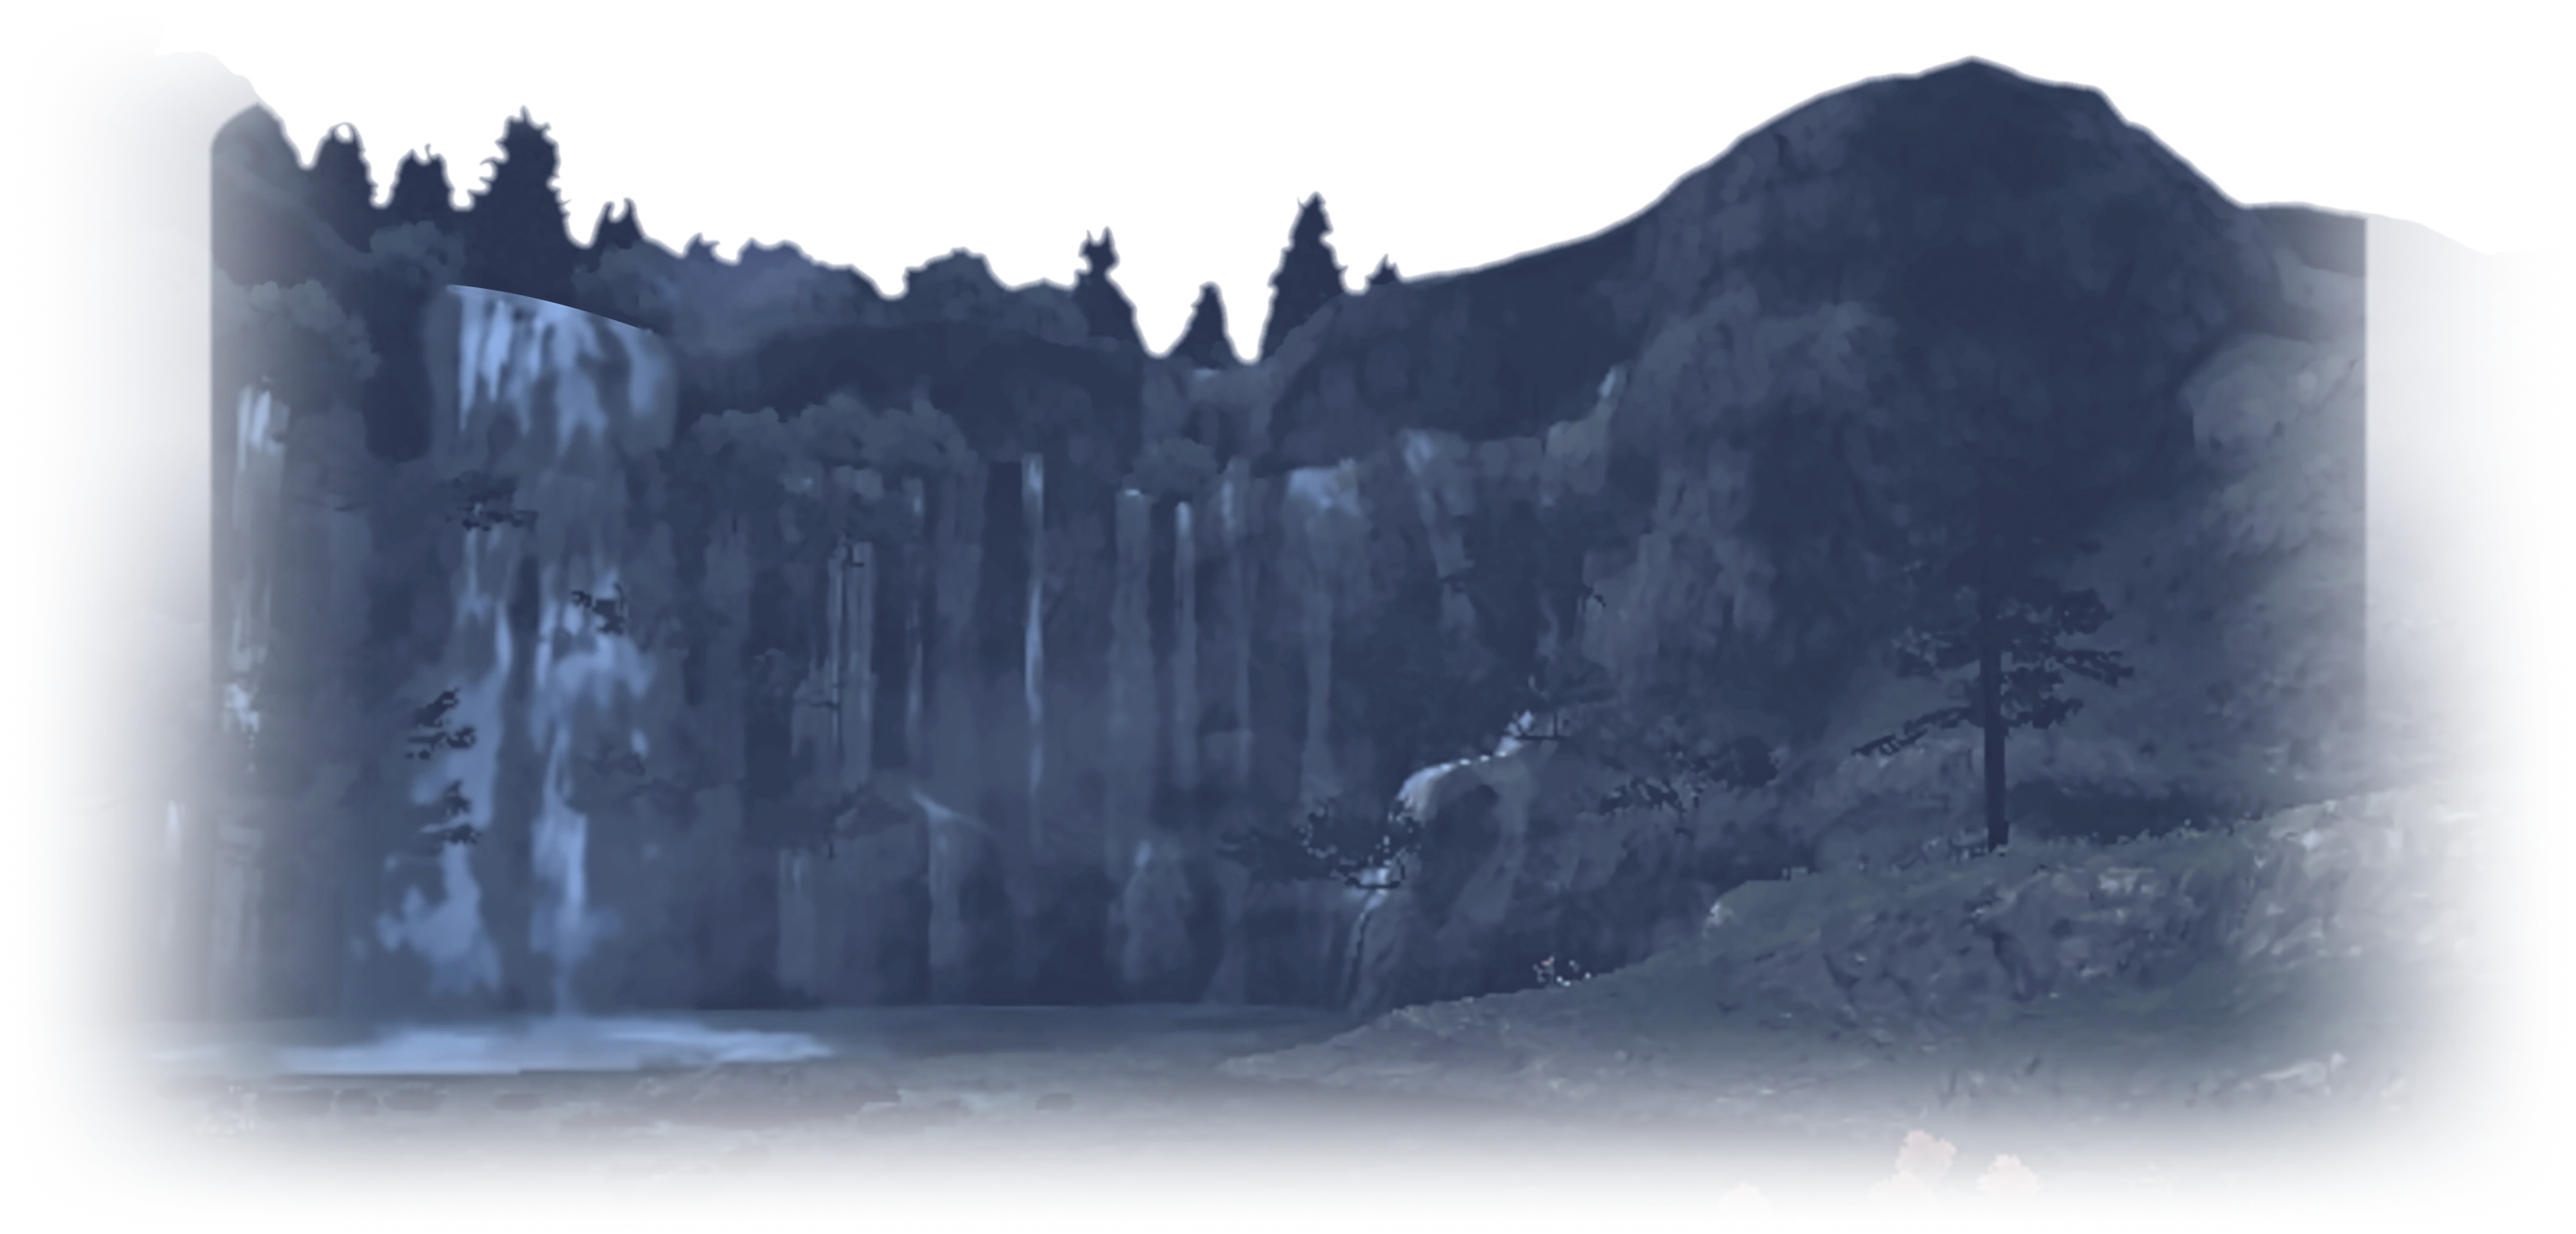
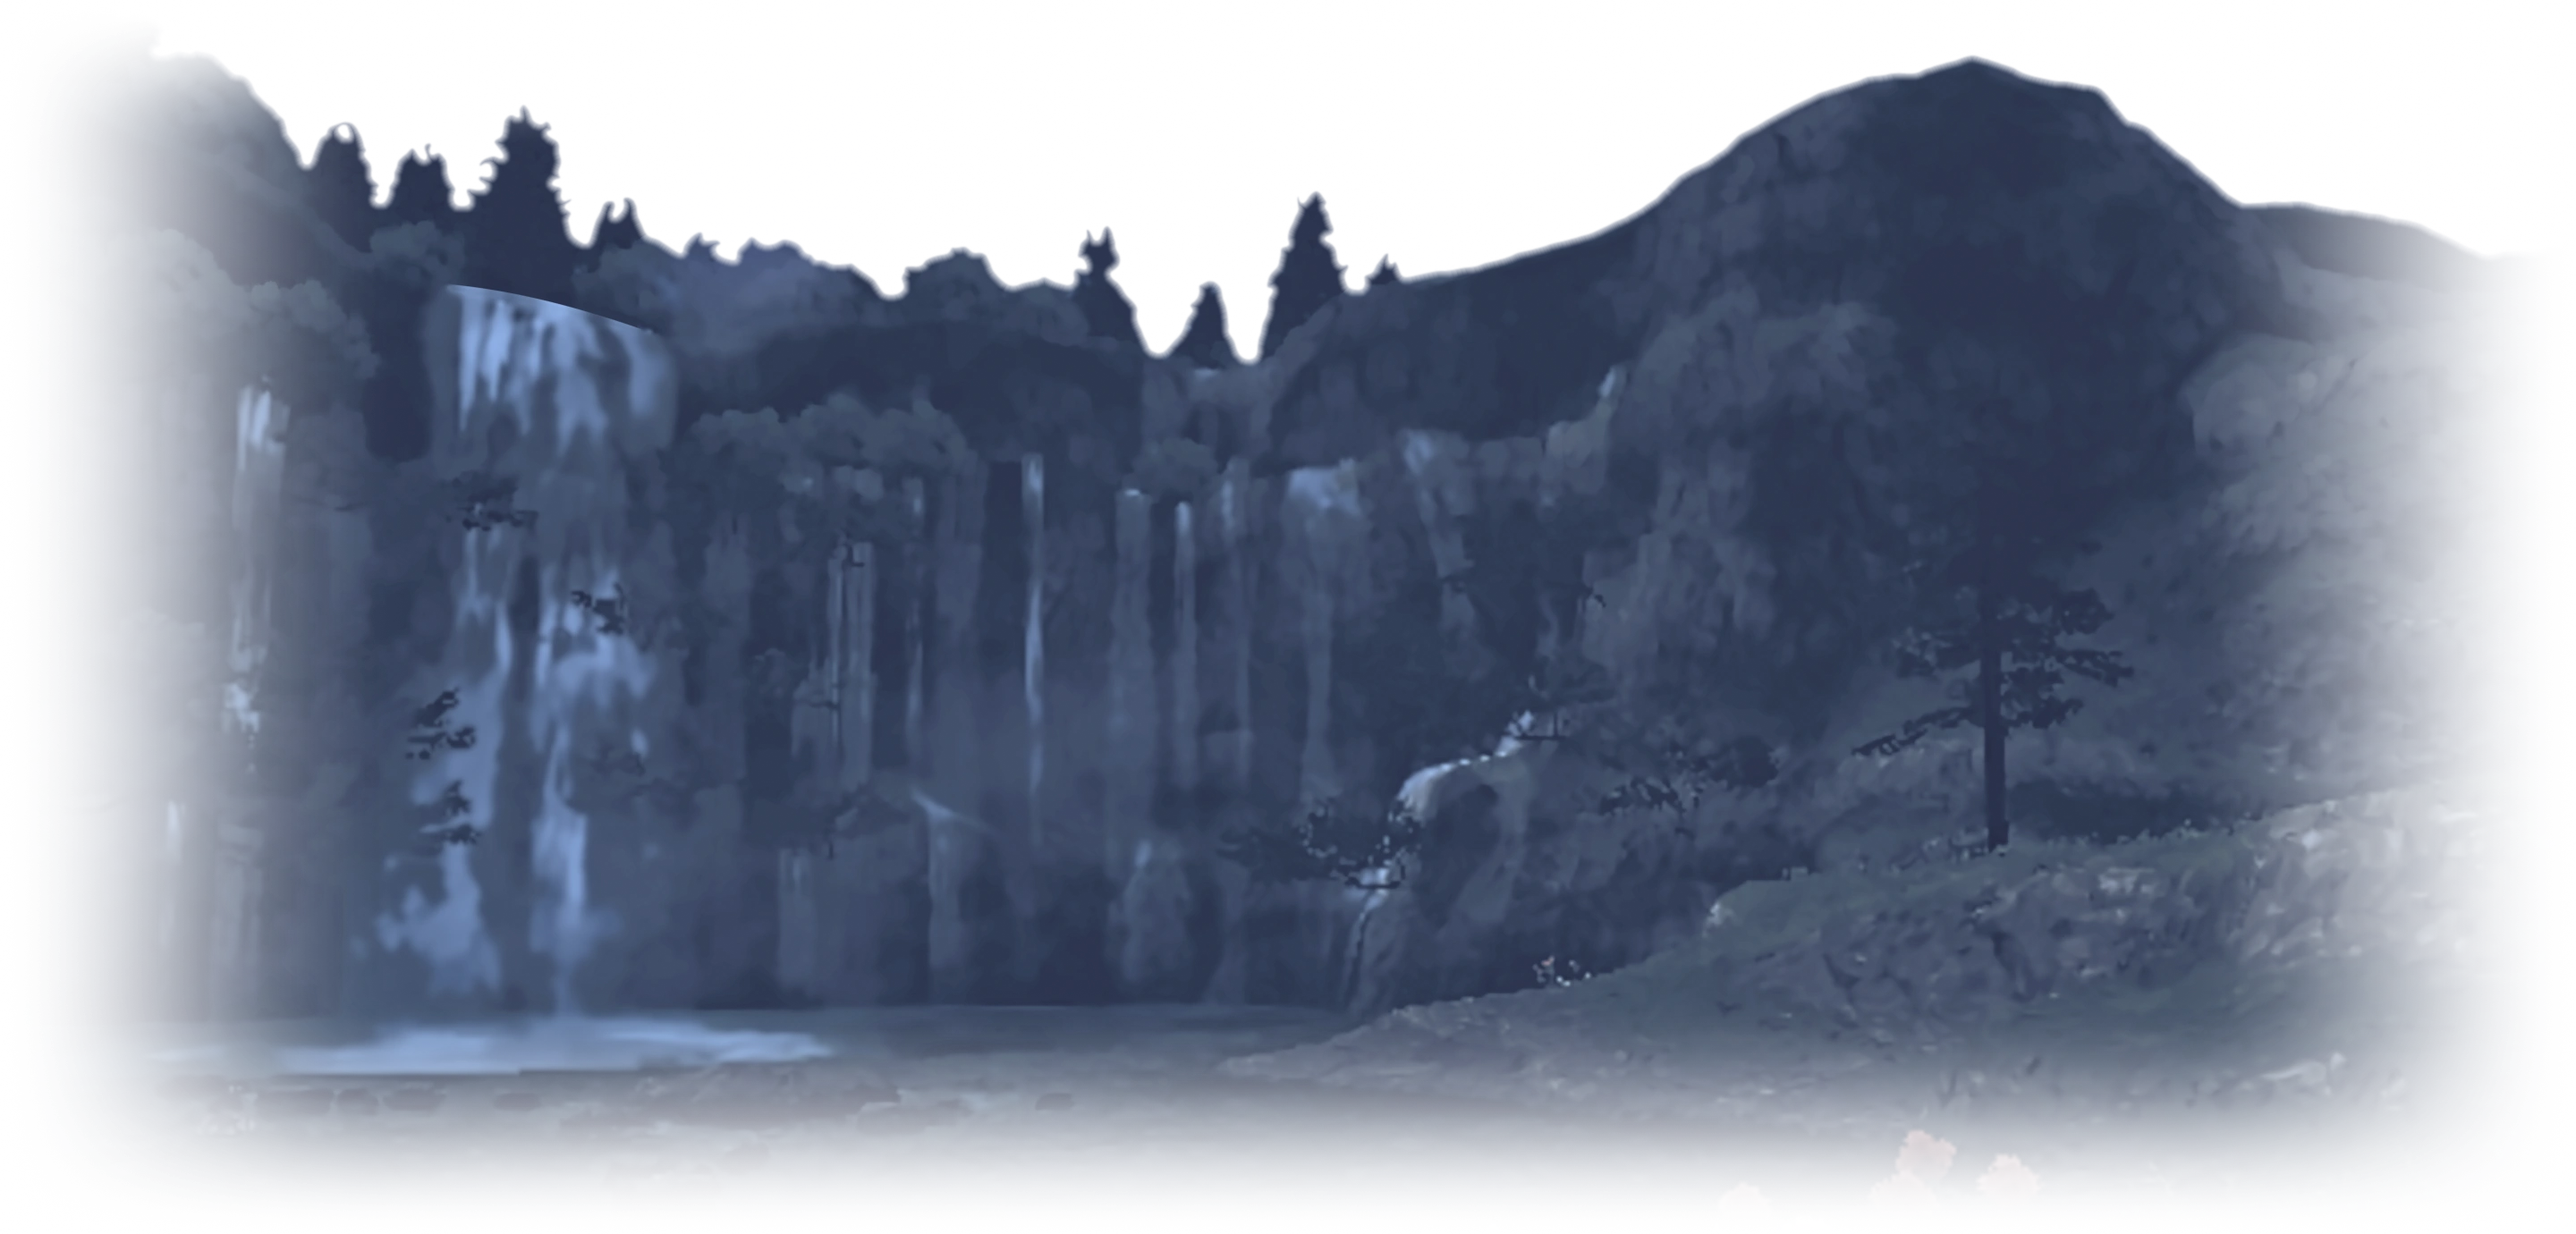
World Time wallpaper: 1750px wide, sides back to their gentle fade (haze only on the skyline)
Claude-Session: https://claude.ai/code/session_01JFbAAtZquShT1fwU1ErE8a

Changed region(s): [[0.0312, 0.0312, 0.125, 0.4986], [0.9062, 0.1558, 0.9688, 0.4986]]

diff --git a/site.css b/site.css
@@ -287,7 +287,7 @@ a.drop:hover,a.drop:focus{color:var(--bright);border-bottom-color:var(--accent);
 .wt-page{position:relative;isolation:isolate}
 .wt-wall{position:fixed;z-index:-1;inset:0;pointer-events:none;overflow:hidden;
 background:radial-gradient(ellipse 48% 30% at 50% 26%,rgba(40,52,74,.32),rgba(40,52,74,0) 80%);opacity:.7}
-.wt-wall::before{content:"";position:absolute;inset:0;background:url(img/wall-misareaux.webp) center 104px/min(1600px,112vw) auto no-repeat;filter:brightness(.5)}
+.wt-wall::before{content:"";position:absolute;inset:0;background:url(img/wall-misareaux.webp) center 104px/min(1750px,122vw) auto no-repeat;filter:brightness(.5)}
 .wt-wall::after{content:"";position:absolute;inset:0;background:radial-gradient(ellipse 30% 30% at 50% 40%,rgba(10,11,18,.4),rgba(10,11,18,0) 100%)}
 @media (max-width:760px){.wt-wall::before{background-size:auto 300px;background-position:42% 38%}}
 .wt-card{background:rgba(17,20,29,.92);backdrop-filter:blur(6px);-webkit-backdrop-filter:blur(6px)}

diff --git a/new-player-guide.html b/new-player-guide.html
@@ -10,7 +10,7 @@
 <link rel="preconnect" href="https://fonts.googleapis.com">
 <link rel="preconnect" href="https://fonts.gstatic.com" crossorigin>
 <link rel="stylesheet" href="https://fonts.googleapis.com/css2?family=Cormorant+Garamond:ital,wght@0,300;0,400;0,500;0,600;1,400;1,500&amp;family=Inter:wght@400;500;600&amp;display=swap">
-<link rel="stylesheet" href="site.css?v=b05b67b30c">
+<link rel="stylesheet" href="site.css?v=a602bf4624">
 <style>
 .npg-steps{display:grid;grid-template-columns:repeat(auto-fit,minmax(240px,1fr));gap:16px}
 .npg-step{display:flex;gap:16px;align-items:flex-start;background:var(--card);border:1px solid var(--line);border-radius:12px;padding:22px}

diff --git a/nm-tracker.html b/nm-tracker.html
@@ -10,7 +10,7 @@
 <link rel="preconnect" href="https://fonts.googleapis.com">
 <link rel="preconnect" href="https://fonts.gstatic.com" crossorigin>
 <link rel="stylesheet" href="https://fonts.googleapis.com/css2?family=Cormorant+Garamond:ital,wght@0,300;0,400;0,500;0,600;1,400;1,500&amp;family=Inter:wght@400;500;600&amp;display=swap">
-<link rel="stylesheet" href="site.css?v=b05b67b30c">
+<link rel="stylesheet" href="site.css?v=a602bf4624">
 <style>
 .nmst{background:var(--bg);padding:18px 20px;display:flex;flex-direction:column;gap:2px}
 .nmst b{font-family:var(--serif);font-weight:400;font-size:38px;line-height:1;color:var(--bright)}

diff --git a/getting-started.html b/getting-started.html
@@ -10,7 +10,7 @@
 <link rel="preconnect" href="https://fonts.googleapis.com">
 <link rel="preconnect" href="https://fonts.gstatic.com" crossorigin>
 <link rel="stylesheet" href="https://fonts.googleapis.com/css2?family=Cormorant+Garamond:ital,wght@0,300;0,400;0,500;0,600;1,400;1,500&amp;family=Inter:wght@400;500;600&amp;display=swap">
-<link rel="stylesheet" href="site.css?v=b05b67b30c">
+<link rel="stylesheet" href="site.css?v=a602bf4624">
 <style>
 .gs-wrap{display:grid;grid-template-columns:1fr 340px;gap:40px;align-items:start}
 .gs-steps{list-style:none;margin:0;padding:0;display:flex;flex-direction:column;gap:16px}

diff --git a/rules.html b/rules.html
@@ -10,7 +10,7 @@
 <link rel="preconnect" href="https://fonts.googleapis.com">
 <link rel="preconnect" href="https://fonts.gstatic.com" crossorigin>
 <link rel="stylesheet" href="https://fonts.googleapis.com/css2?family=Cormorant+Garamond:ital,wght@0,300;0,400;0,500;0,600;1,400;1,500&amp;family=Inter:wght@400;500;600&amp;display=swap">
-<link rel="stylesheet" href="site.css?v=b05b67b30c">
+<link rel="stylesheet" href="site.css?v=a602bf4624">
 <style>
 .rules-wrap{display:grid;grid-template-columns:260px 1fr;gap:40px;align-items:start}
 .rules-toc{position:sticky;top:96px;display:flex;flex-direction:column;gap:14px}

diff --git a/companions.html b/companions.html
@@ -10,7 +10,7 @@
 <link rel="preconnect" href="https://fonts.googleapis.com">
 <link rel="preconnect" href="https://fonts.gstatic.com" crossorigin>
 <link rel="stylesheet" href="https://fonts.googleapis.com/css2?family=Cormorant+Garamond:ital,wght@0,300;0,400;0,500;0,600;1,400;1,500&amp;family=Inter:wght@400;500;600&amp;display=swap">
-<link rel="stylesheet" href="site.css?v=b05b67b30c">
+<link rel="stylesheet" href="site.css?v=a602bf4624">
 
 </head>
 <body>

diff --git a/crafting.html b/crafting.html
@@ -10,7 +10,7 @@
 <link rel="preconnect" href="https://fonts.googleapis.com">
 <link rel="preconnect" href="https://fonts.gstatic.com" crossorigin>
 <link rel="stylesheet" href="https://fonts.googleapis.com/css2?family=Cormorant+Garamond:ital,wght@0,300;0,400;0,500;0,600;1,400;1,500&amp;family=Inter:wght@400;500;600&amp;display=swap">
-<link rel="stylesheet" href="site.css?v=b05b67b30c">
+<link rel="stylesheet" href="site.css?v=a602bf4624">
 
 </head>
 <body>

diff --git a/hunt.html b/hunt.html
@@ -10,7 +10,7 @@
 <link rel="preconnect" href="https://fonts.googleapis.com">
 <link rel="preconnect" href="https://fonts.gstatic.com" crossorigin>
 <link rel="stylesheet" href="https://fonts.googleapis.com/css2?family=Cormorant+Garamond:ital,wght@0,300;0,400;0,500;0,600;1,400;1,500&amp;family=Inter:wght@400;500;600&amp;display=swap">
-<link rel="stylesheet" href="site.css?v=b05b67b30c">
+<link rel="stylesheet" href="site.css?v=a602bf4624">
 
 </head>
 <body>

diff --git a/index.html b/index.html
@@ -10,7 +10,7 @@
 <link rel="preconnect" href="https://fonts.googleapis.com">
 <link rel="preconnect" href="https://fonts.gstatic.com" crossorigin>
 <link rel="stylesheet" href="https://fonts.googleapis.com/css2?family=Cormorant+Garamond:ital,wght@0,300;0,400;0,500;0,600;1,400;1,500&amp;family=Inter:wght@400;500;600&amp;display=swap">
-<link rel="stylesheet" href="site.css?v=b05b67b30c">
+<link rel="stylesheet" href="site.css?v=a602bf4624">
 
 </head>
 <body>

diff --git a/jobs.html b/jobs.html
@@ -10,7 +10,7 @@
 <link rel="preconnect" href="https://fonts.googleapis.com">
 <link rel="preconnect" href="https://fonts.gstatic.com" crossorigin>
 <link rel="stylesheet" href="https://fonts.googleapis.com/css2?family=Cormorant+Garamond:ital,wght@0,300;0,400;0,500;0,600;1,400;1,500&amp;family=Inter:wght@400;500;600&amp;display=swap">
-<link rel="stylesheet" href="site.css?v=b05b67b30c">
+<link rel="stylesheet" href="site.css?v=a602bf4624">
 
 </head>
 <body>

diff --git a/news.html b/news.html
@@ -10,7 +10,7 @@
 <link rel="preconnect" href="https://fonts.googleapis.com">
 <link rel="preconnect" href="https://fonts.gstatic.com" crossorigin>
 <link rel="stylesheet" href="https://fonts.googleapis.com/css2?family=Cormorant+Garamond:ital,wght@0,300;0,400;0,500;0,600;1,400;1,500&amp;family=Inter:wght@400;500;600&amp;display=swap">
-<link rel="stylesheet" href="site.css?v=b05b67b30c">
+<link rel="stylesheet" href="site.css?v=a602bf4624">
 
 </head>
 <body>

diff --git a/quality-of-life.html b/quality-of-life.html
@@ -10,7 +10,7 @@
 <link rel="preconnect" href="https://fonts.googleapis.com">
 <link rel="preconnect" href="https://fonts.gstatic.com" crossorigin>
 <link rel="stylesheet" href="https://fonts.googleapis.com/css2?family=Cormorant+Garamond:ital,wght@0,300;0,400;0,500;0,600;1,400;1,500&amp;family=Inter:wght@400;500;600&amp;display=swap">
-<link rel="stylesheet" href="site.css?v=b05b67b30c">
+<link rel="stylesheet" href="site.css?v=a602bf4624">
 
 </head>
 <body>
